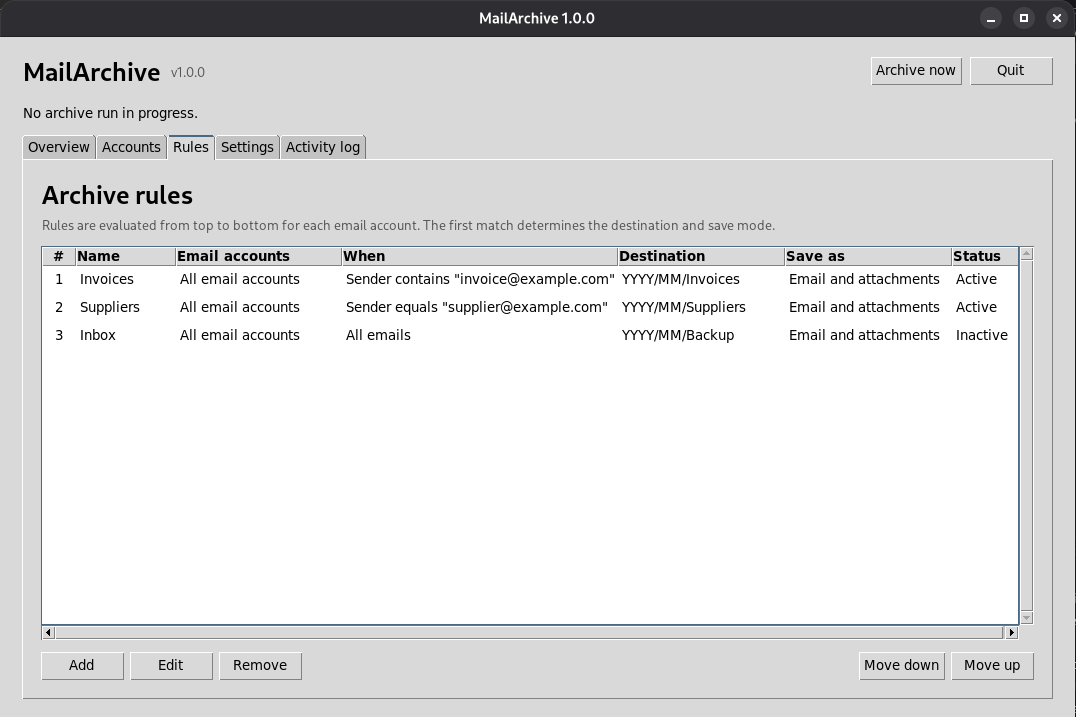
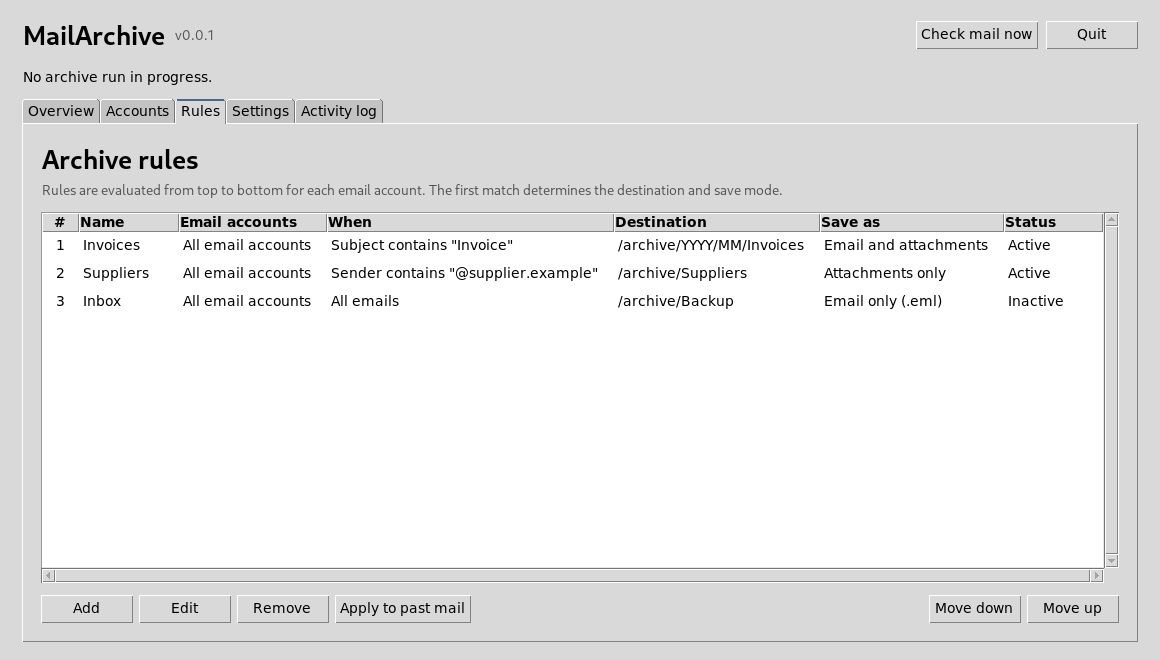
docs: restructure README and update GUI screenshot

Changed region(s): [[0.0, 0.0, 1.0, 1.0], [0.7974, 0.0909, 0.8894, 0.1212], [0.9201, 0.0909, 0.9507, 0.1212]]

diff --git a/README.md b/README.md
@@ -1,49 +1,292 @@
-# MailArchive 0.0.1
+# <img src="assets/mailarchive.svg" alt="" width="40" height="40"> MailArchive
 
-MailArchive is a local Python desktop application for saving email and attachments from IMAP, Gmail API, and Microsoft Graph mailboxes. It runs on Windows and Linux. Version 0.0.1 starts a fresh product format; it does not import settings or history from earlier prototypes.
+**Local email and attachment archiving for Windows and Linux.**
 
-## How archiving works
+MailArchive is a Python desktop application that checks your mailboxes on a schedule
+and saves matching emails and attachments into local folders. Connect IMAP, Gmail,
+or Microsoft 365 accounts, define archive rules, and choose where each output goes.
+Messages on the server stay in place and retain their read/unread status.
 
-1. Add an account and one or more mailbox folders or label IDs. An empty folder list selects all accessible folders. Folder names use one line each; spaces are preserved.
-2. Add rules in priority order. The first enabled rule whose account scope and conditions match chooses all destinations for that message. Every rule can be deleted; an empty rule list saves nothing.
-3. Give each rule one or more **full destination paths**. Each destination chooses email, attachments, or both, and whether attachments go directly into that folder or into one folder per mail. `{year}` and `{month}` use the provider reception time in the configured archive timezone; `{{` and `}}` represent literal braces. Missing subfolders are created when written.
-4. For each mailbox, choose **Archive messages already present on the first check** if its existing mail should be processed when monitoring starts. Otherwise the first check records that mail as a baseline and later automatic checks process newly discovered messages. Changing this choice later affects only folders that have not been checked yet. Use **Check mail now** to run a check immediately; a later imported old message can still be a new discovery. During that check, the same button becomes **Stop check**. It stops the complete check, including downloads and archive outputs; **Stopping** remains visible until the current step has safely ended. Saved files are kept. Automatic checks and unfinished work may continue after the configured polling interval; **Check mail now** can start them sooner.
-5. Select a rule and use **Apply to past mail** to process mail in every enabled mailbox covered by the rule's email account scope, using each mailbox's configured folders or labels. The dialog only asks for an optional inclusive local date range and its timezone. This explicit run applies only the selected rule, regardless of other rules' priority, and does not move the automatic discovery cursor. Repeating it can add outputs after a rule change without duplicating identical outputs. Saving a rule does not start the run.
-6. Open **Archive activity** for one view of **Current jobs** and **History**. A past-mail run appears as one job with its selected mailboxes, scan attempts, mail results, and individual outputs. Automatic checks appear when they have actual mail work; an empty successful check updates monitoring health without adding a job. Select a job to inspect its errors and output paths. **Load more** shows older history.
-7. Use **Stop selected job** to stop the whole selected past-mail operation, including remaining mailbox scans and outputs. Files already saved remain saved. Use **Retry selected failure** for unfinished work: a failed or interrupted past-mail scan continues from its frozen selection, while accepted outputs can retry from the local raw copy without downloading that mail again. Work waiting for an output remains in Current jobs until its outputs settle. Stopped operations do not resume automatically.
+## Features
 
-Archived mail is `.eml`. Attachment names are made safe for the destination filesystem. A file already present at the requested name is not overwritten or treated as a prior MailArchive success without a receipt. Successful outputs are tracked individually. A later run can show **Previously archived** when it reuses a receipt; the detail shows when the original output was saved. **Open selected output** opens a specific completed file and reports if it is now missing. If a user later deletes an archive file, an ordinary range run does not silently repair it.
+- **Multiple providers:** generic IMAP, Gmail API, and Microsoft Graph, with password,
+  OAuth, and supported application access.
+- **Flexible rules:** match sender, recipient, subject, body, or attachments, and
+  limit rules to selected email accounts.
+- **Multiple destinations:** save original `.eml` files, attachments, or both to one
+  or more full paths, with optional year/month folders.
+- **Automatic monitoring:** choose which folders or labels to watch and whether to
+  include messages already present at the first check.
+- **Past-mail archiving:** apply a selected rule to existing mail, optionally within
+  a date range, independently of automatic rule priority.
+- **Activity and recovery:** inspect jobs, history, errors, and output files; stop
+  work and retry failures while keeping successful outputs.
+- **Local storage:** keep archive files and processing history on your computer,
+  with credentials in the operating system credential store.
+- **Desktop integration:** optional login autostart and background operation through
+  the notification area.
 
-## Install and run
+<img src="assets/mailarchive-linux.png" alt="MailArchive 0.0.1 on Linux showing the archive rules overview" width="800">
 
-The first planned release tag is `v0.0.1`. The tag and downloadable Windows installer/Linux AppImage are created only when the release is authorized and published. Build instructions are in [Development](docs/DEVELOPMENT.md).
+*MailArchive 0.0.1 on Linux with example archive rules.*
 
-For source development:
+## Getting started
+
+The current source version is **0.0.1**. A Windows installer and Linux AppImage are
+planned for the first release; use the source instructions below for now.
+
+### Requirements
+
+- Python **3.10 or newer**, with Tkinter support.
+- Git to clone the repository, or a downloaded copy of the source.
+- An accessible email account and its provider's required authentication setup.
+- A working operating system credential store: Windows Credential Manager, or a
+  Linux keyring such as GNOME Keyring or KWallet.
+
+Clone the repository and open its directory:
 
 ```bash
-python -m venv .venv
-.venv/bin/python -m pip install -e '.[test,quality]'
+git clone https://github.com/PaDreyer/mailarchive.git
+cd mailarchive
+```
+
+### Linux
+
+On Debian or Ubuntu, install Python's virtual-environment and Tkinter support if needed:
+
+```bash
+sudo apt install python3-venv python3-tk
+```
+
+Create an environment, install MailArchive, and start it:
+
+```bash
+python3 -m venv .venv
+.venv/bin/python -m pip install -e .
 .venv/bin/python -m mailarchive
 ```
 
-On Windows, use `.venv\Scripts\python.exe` in place of `.venv/bin/python`.
+### Windows
 
-Credentials remain in the operating system credential store. The profile database defaults to `workspace.sqlite3` in the platform user data directory; its path can be changed under **Settings → Advanced → Database**. Entering an existing MailArchive database opens that profile. Entering a path without a database creates a new empty profile there. The previous database stays unchanged. Each database needs its own directory because accepted raw mail is kept in an adjacent `work` folder. A small location file in the default data directory records the active path for the next start. Configuration, source identities, runs, receipts, and the activity log share the active database. An unknown or damaged profile database is rejected. There is no automatic import of prototype files.
+In PowerShell, using a Python installation with Tcl/Tk support:
 
-Provider message bodies are downloaded and written in bounded chunks. One message may contain at most 256 MiB of raw RFC 822 data. The work folder may contain at most 2 GiB and MailArchive keeps a 64 MiB disk reserve for state updates. At most 256 unresolved message intakes can remain active at once; discovery pauses at that boundary until pending intakes resolve. Stopping a past-mail operation cancels its unfinished intakes. Capacity failures stay visible in Archive activity and do not advance the affected automatic cursor.
+```powershell
+python -m venv .venv
+.\.venv\Scripts\python.exe -m pip install -e .
+.\.venv\Scripts\python.exe -m mailarchive
+```
 
-## What the source can identify
+### First archive
 
-Gmail uses message IDs across labels; Graph uses immutable message IDs across folders within a mailbox. Generic IMAP identifies a message by folder, UIDVALIDITY, and UID. IMAP moves or UIDVALIDITY changes can therefore appear as new source occurrences. A UIDVALIDITY change pauses that folder until the user explicitly starts a new baseline or runs a range selection. MailArchive does not infer equality from Message-ID, date, or identical content across providers or mailboxes.
+1. In **Accounts**, choose **Add**, select your provider and authentication method,
+   and enter the connection details.
+2. Under **Mailboxes**, add the mailbox address and the folders or label IDs to
+   read. Choose whether to archive messages already present at the first check.
+3. Save the account. For browser sign-in, select it and choose **Authorize**.
+4. In **Rules**, add an enabled rule with a matching condition and a full destination
+   path, such as `/home/alex/Archive/Invoices` or `C:\Archive\Invoices`.
+5. Choose **Check mail now**, then open **Overview → Archive activity** to inspect
+   the results. To archive earlier mail explicitly, select a rule and choose
+   **Apply to past mail**.
 
-Provider reception times drive ranges: Gmail `internalDate`, Graph `receivedDateTime`, and IMAP `INTERNALDATE`. A missing provider time is an intake error. Gmail import operations can assign an old `internalDate` to newly inserted mail; discovery still uses IDs and cursors.
+A profile without rules saves nothing. The sections below explain the provider
+setup and rule options in more detail.
 
-MailArchive writes to paths supplied by the operating system. It reports write errors; it cannot detect a missing mount when the path remains locally writable. Provider messages that disappear before complete local intake are not protected by the work queue. An already accepted plan can finish without another provider download.
+## Configuration
 
-## Project documentation
+### Accounts and mailboxes
 
-- [Architecture](docs/ARCHITECTURE.md)
-- [Provider synchronization](docs/PROVIDER_SYNC_CONTRACTS.md)
-- [Development and tests](docs/DEVELOPMENT.md)
-- [Release procedure](docs/RELEASE.md)
-- [Authentication](docs/AUTHENTICATION.md)
+An account holds a connection and its credentials. Its **Mailboxes** list selects
+which mailbox addresses to read through that connection.
+
+| Provider | Sign-in options | Mailbox access |
+| --- | --- | --- |
+| Generic IMAP | Password or app password; Microsoft OAuth for Microsoft IMAP | The login's mailbox; permitted shared mailboxes with Microsoft OAuth |
+| Gmail API | Google OAuth; Workspace domain-wide delegation | The signed-in account; delegated Workspace users with application access |
+| Microsoft Graph | Microsoft delegated OAuth; application access | Own and permitted shared mailboxes; mailboxes permitted for the application |
+
+Google browser sign-in requires your own Google Desktop OAuth client. Microsoft
+browser sign-in uses the application registration bundled with MailArchive.
+Workspace delegation and Microsoft application access require administrator setup.
+See [Authentication](docs/AUTHENTICATION.md) for the complete instructions, or the
+[Gmail app-password guide](docs/GMAIL_APP_PASSWORD_SETUP.md) to connect Gmail over IMAP.
+
+Enter folder names or IDs, or Gmail label IDs, **one per line**. Spaces in folder
+names are preserved. Leave the list blank to read all accessible folders or labels.
+
+Enable **Archive messages already present on the first check** to include existing
+mail when a folder is first checked. Otherwise, that first check records a baseline
+and later checks process newly discovered messages. Changing the option later only
+affects folders that have not yet been checked; use **Apply to past mail** for
+folders already monitored.
+
+### Rules and destination paths
+
+Rules run in priority order. The first enabled rule whose account scope and
+conditions match chooses all destinations for that message. Put specific rules
+above broader ones, and use **Move up** or **Move down** to change their priority.
+Every rule can be removed; an empty rule list saves nothing.
+
+Each destination uses a **full path** and selects email, attachments, or both.
+Choose whether attachments go directly into the destination or into a separate
+folder for each message. Use **Edit additional destinations** to add more outputs
+to the same rule. Missing subfolders are created when files are written.
+
+`{year}` and `{month}` use the provider's reception time in the timezone selected
+under **Settings → General → Archive date timezone**. For example, with a message
+received in September 2026:
+
+| Destination template | Resulting folder |
+| --- | --- |
+| `/home/alex/Archive/{year}/{month}/Invoices` | `/home/alex/Archive/2026/09/Invoices` |
+| `C:\Archive\Invoices\{year}\{month}` | `C:\Archive\Invoices\2026\09` |
+
+Use `{{` and `}}` for literal braces. Archived email retains its original `.eml`
+format, and attachment filenames are made safe for the destination filesystem.
+Existing unrelated files are not overwritten or counted as earlier archive successes.
+
+### Monitoring and past mail
+
+Automatic checks begin 30 seconds after startup and follow the polling interval in
+**Settings → General**, unless an account has its own interval. **Check mail now**
+starts a check immediately. A newly discovered message can have an old reception date,
+for example after a provider import.
+
+During a manual check, the button becomes **Stop check**. It stops the complete
+check, including downloads and archive outputs. **Stopping** remains visible until
+the current step has safely ended. Completed files are kept; automatic checks and
+unfinished work may continue after the configured polling interval. **Check mail now**
+can start them sooner.
+
+To process older mail, select an enabled rule and choose **Apply to past mail**.
+It covers every enabled mailbox in that rule's account scope, using the configured
+folders or labels. The dialog accepts an optional inclusive date range and timezone.
+Only the selected rule applies, regardless of other rules' priority. Saving a rule
+alone does not start a run, and this explicit run does not change automatic monitoring's
+starting point.
+
+Repeating a past-mail run can add outputs after a rule change without duplicating
+identical outputs already tracked by MailArchive. It does not recreate archive files
+that you manually deleted.
+
+### Activity, stopping, and retries
+
+Open **Overview → Archive activity** for **Current jobs** and **History**. Select a
+job to inspect its mailboxes, attempts, messages, individual outputs, and errors.
+**Load more** shows older history. Empty successful checks update monitoring health
+without adding an archive job.
+
+**Stop selected job** stops the whole selected past-mail operation, including its
+remaining scans and outputs. Files already saved remain saved; stopped operations
+do not resume automatically. **Retry selected failure** continues eligible failed
+or interrupted work from its saved selection. Once mail has been fully accepted
+locally, outputs can retry from the local raw copy without another download.
+
+A reused successful output appears as **Previously archived**, with its original
+completion time. **Open selected output** opens a specific completed file and reports
+if it is now missing. The separate **Activity log** records checks, warnings, and errors.
+
+### Desktop behavior and settings
+
+Under **Settings → General**, configure the polling interval, archive date timezone,
+login autostart, notifications, and notification-area behavior. Settings save
+automatically; for text fields, press **Enter** or leave the field.
+
+Closing the window keeps monitoring active when notification-area operation is enabled
+and a tray host is available. Click the tray icon to reopen the window, or choose
+**Quit** in the window or tray menu to stop MailArchive. On Linux, the tray requires a
+StatusNotifier host, such as KDE Plasma or GNOME with an AppIndicator extension.
+Without a tray host, MailArchive remains a normal window.
+
+### Local data and credentials
+
+Configuration, processing history, output receipts, and the activity log share a
+local `workspace.sqlite3` profile database. Accepted raw mail is kept in an adjacent
+`work` folder until its requested outputs settle.
+
+| Platform | Default profile directory |
+| --- | --- |
+| Windows | `%LOCALAPPDATA%\MailArchive` |
+| Linux | `$XDG_DATA_HOME/mailarchive`, or `~/.local/share/mailarchive` |
+
+Change the profile path under **Settings → Advanced → Database**. An existing
+MailArchive database opens that profile; a new path creates an empty profile.
+The previous database stays unchanged. Each database needs its own directory for
+its adjacent work files. A small location file in the default data directory
+remembers the selected profile for the next start.
+
+Passwords, OAuth tokens, client secrets, and service-account keys remain in the
+operating system credential store. Version 0.0.1 uses a fresh profile format and
+does not import settings or history from earlier prototypes. Incompatible or
+damaged profile databases are rejected.
+
+## Development
+
+Install the test and quality tools into the environment created above:
+
+```bash
+.venv/bin/python -m pip install -e '.[test,quality]'
+```
+
+Run the repository checks:
+
+```bash
+.venv/bin/python -m ruff check src tests
+.venv/bin/python -m ruff format --check src tests
+.venv/bin/python -m coverage run -m unittest discover -s tests -v
+.venv/bin/python -m coverage report
+```
+
+On Windows, replace `.venv/bin/python` with `.\.venv\Scripts\python.exe`.
+Tests use temporary profiles and fake providers. GUI tests need a display; on
+headless Linux, run the coverage command through `xvfb-run -a`.
+
+See [Development](docs/DEVELOPMENT.md) for GUI smoke checks, coverage requirements,
+and Windows installer/Linux AppImage builds. See [Architecture](docs/ARCHITECTURE.md)
+for the application boundaries and [Release procedure](docs/RELEASE.md) for versioning
+and publication.
+
+## Contributing
+
+Bug reports, feature suggestions, and pull requests are welcome.
+
+- Open a [GitHub issue](https://github.com/PaDreyer/mailarchive/issues) with your
+  MailArchive version, operating system, provider, and steps to reproduce the problem.
+- Keep [pull requests](https://github.com/PaDreyer/mailarchive/pulls) focused, describe
+  the resulting behavior, and run the relevant checks from the development section.
+- Include tests for behavior changes and update documentation when the user workflow changes.
+- Remove credentials and private email content from logs, screenshots, and examples you share.
+
+## Documentation
+
+- [Authentication](docs/AUTHENTICATION.md): provider setup and sign-in methods.
+- [Gmail app passwords](docs/GMAIL_APP_PASSWORD_SETUP.md): connect Gmail through IMAP.
+- [Custom Microsoft OAuth setup](docs/MICROSOFT_OAUTH_SETUP.md): use your own registration.
+- [Development](docs/DEVELOPMENT.md): tests, GUI verification, and package builds.
+- [Architecture](docs/ARCHITECTURE.md): modules, persistence, processing, and recovery.
+- [Provider synchronization](docs/PROVIDER_SYNC_CONTRACTS.md): message identities,
+  reception times, discovery, and retry contracts.
+- [Release procedure](docs/RELEASE.md): versioning and publication.
+
+## Limitations
+
+- Gmail and Graph recognize message identities across labels or folders within one
+  mailbox. Generic IMAP uses folder, UIDVALIDITY, and UID; a move can appear as a new
+  source occurrence. A UIDVALIDITY change pauses the folder until you choose a new
+  baseline or an explicit range. MailArchive does not deduplicate across providers
+  or mailboxes using Message-ID, dates, or identical content.
+- Reception times come from the provider. A missing provider reception time is an
+  intake error; it is not replaced by the email's Date header.
+- A message is limited to **256 MiB** of raw data. The work folder is limited to
+  **2 GiB**, with a **64 MiB** disk reserve and at most **256 unresolved intakes**.
+  Capacity failures appear in Archive activity and do not advance the affected cursor.
+- A provider message that disappears before complete local intake may fail to archive.
+  Fully accepted local work can finish without another provider download.
+- MailArchive reports filesystem write errors, but cannot detect a missing mount
+  when its path remains locally writable.
+
+## License
+
+MailArchive is released under the [MIT License](LICENSE).
+
+Copyright © 2026 Paul Dreyer.
